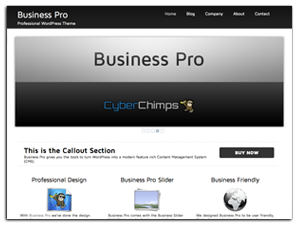
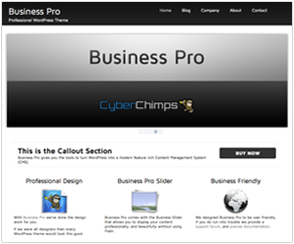
Themes Store rewrite.

diff --git a/library/options/theme-options.css b/library/options/theme-options.css
@@ -52,9 +52,37 @@ input.button-primary {font-size:14px !important;}
 	float: right;text-decoration: none;padding: 5px;
 }
 
+/* CyberChimps Themes CSS
+----------------------------------*/
+
+#contain {
+	text-align: left;margin: 10px 0 10px 10px;padding: 0px;border:0;width: 850px;
+}
+
+#themesheader {
+	margin: 0 0 30px 0;	
+}
+
+.pro {
+	font-size: 19px;
+}
+
+.theme_images {
+	float: left;width: 294px;height: 250px;margin-bottom: 15px;
+}
+
+.theme_desciptions {
+	margin: 0;float: right;width: 540px;height: 250px;margin-bottom: 15px;
+}
+
+.theme_titles a{
+	font-size: 18px;
+	text-decoration: none !important;
+	font-weight: bold;
+	color: #333;
+}
+
 /* Layout helpers
-
-
 ---------------------------------*/
 
 #footer {position: relative;}

diff --git a/library/options/options-themes.php b/library/options/options-themes.php
@@ -36,11 +36,11 @@ function cyberchimps_store_page_init() {
 	$root = get_template_directory_uri(); 
 ?>
 
-<div style="text-align: left;margin: 10px 0 10px 10px;padding: 0px;border:0;width: 860px;">
-	<div style="margin: 0 0 15px 0;">
+<div id="contain">
+	<div id="themesheader">
 		<a href="http://cyberchimps.com" target="_blank"><img src="<?php echo $root ;?>/images/themes/cyberchimps.png" /></a>
 		<br />
-		<font size="4"><b>Professional WordPress Themes</b></font>
+		<span class="pro">Professional WordPress Themes</span>
 		<br /><br />
 		<div class="menu">
 		<ul>
@@ -52,59 +52,49 @@ function cyberchimps_store_page_init() {
 		</ul>
 	</div>
 	<div style="clear: both;"></div>
-
 	</div>
+	
 	<div id="container">
-		<div style="float: left;width: 300px;margin-right: 10px;">
-		
-		<ul>
-		<li style="margin-top: 10px;">
-		<a href="http://cyberchimps.com/businesspro/" target="_blank"><img src="<?php echo $root ;?>/images/themes/bizpro.png" /></a></li>
-		<li style="margin-top: 30px;">
-		<a href="http://cyberchimps.com/ifeaturepro/" target="_blank"><img src="<?php echo $root ;?>/images/themes/ifeaturepro2thumb.png" /></a></li>
-		<li style="margin-top: 30px;">
-		<a href="http://cyberchimps.com/neuropro/" target="_blank"><img src="<?php echo $root ;?>/images/themes/neuropro.png" /></a></li>
-		</ul>
-		
-		</div>
-		
-		<div style="margin: 0;float: left;width: 550px;height: 1% /* Holly hack for Peekaboo Bug */">
-		
-		<ul>
-		
-		<li style="margin-top: 18px;">
-		<font size="3"><a href="http://cyberchimps.com/businesspro/" target="_blank"><b>Business Pro</b></a></font>
-		<br /><br />
+	
+	<div class="theme_images">
+		<a href="http://cyberchimps.com/businesspro/" target="_blank"><img src="<?php echo $root ;?>/images/themes/bizpro.png" /></a>
+	</div>
+	<div class="theme_desciptions">
+		<div class="theme_titles"><a href="http://cyberchimps.com/businesspro/" target="_blank">Business Pro</a></div>
+		<br />
 		Business Pro is a Professional WordPress Theme. Business Pro gives your company the tools to turn WordPress into a modern feature rich Content Management System (CMS).
-		<br /><br /> Business Pro offers intuitive options enabling any business to use WordPress as their content management system. Business Pro offers designers and developers Custom CSS, Import / Export options, and support for CSS3, and HTML5. Even if you are not a designer, Business Pro is built to be business friendly.
+		<br /><br />
+		Business Pro offers intuitive options enabling any business to use WordPress as their content management system. Business Pro offers designers and developers Custom CSS, Import / Export options, and support for CSS3, and HTML5. Even if you are not a designer, Business Pro is built to be business friendly.
 		<br /><br />
 		<a href="http://cyberchimps.com/businesspro" target="_blank"><img src="<?php echo $root ;?>/images/themes/buybizpro.png" height="40" width="120" /></a>
-		</li>
-		
-		<li style="margin-top: 48px;">
-		<font size="3"><a href="http://cyberchimps.com/ifeaturepro/" target="_blank"><b>iFeature Pro</b></a></font>
+	</div>
+	
+	<div class="theme_images">
+		<a href="http://cyberchimps.com/ifeaturepro/" target="_blank"><img src="<?php echo $root ;?>/images/themes/ifeaturepro2.png" /></a>
+	</div>
+	<div class="theme_desciptions">
+		<div class="theme_titles"><a href="http://cyberchimps.com/ifeaturepro/" target="_blank">iFeature Pro</a></div>
+		<br />
+		iFeature Pro turns WordPress into a beautifully designed feature rich Content Management System (CMS). We thought differently when developing iFeature Pro, and took CyberChimps years of experience developing websites for clients and built user friendly settings for the most requested features from the ground up.
 		<br /><br />
-		iFeature Pro turns WordPress into a beautifully designed feature rich Content Management System (CMS).
-
-We thought differently when developing iFeature Pro, and took CyberChimps years of experience developing websites for clients and built user friendly settings for the most requested features from the ground up.
-<br /><br />
-iFeature Pro is an advanced WordPress theme released under the GNU GPL v2. iFeature Pro works great in Chrome, Safari, FireFox, and Internet Explorer 7, 8, and 9 (we do not support Internet Explorer 6). <br /><br />
+		iFeature Pro is an advanced WordPress theme released under the GNU GPL v2. iFeature Pro works great in Chrome, Safari, FireFox, and Internet Explorer 7, 8, and 9 (we do not support Internet Explorer 6). <br /><br />
 		<a href="http://cyberchimps.com/ifeaturepro/" target="_blank"><img src="<?php echo $root ;?>/images/themes/buyifeaturepro.png" height="40" width="120" /></a>
-		</li>
+	</div>
 		
-		<li style="margin-top: 48px;">
-		<font size="3"><a href="http://cyberchimps.com/neuropro/" target="_blank"><b>Neuro Pro</b></a></font>
+		
+	<div class="theme_images">
+		<a href="http://cyberchimps.com/neuropro/" target="_blank"><img src="<?php echo $root ;?>/images/themes/neuropro.png" /></a>
+	</div>
+	<div class="theme_desciptions">
+		<div class="theme_titles"><a href="http://cyberchimps.com/neuropro/" target="_blank">Neuro Pro</a></div>
+		<br />
+		Neuro Pro features intuitive design options allowing anyone the ability to easily customize the look and feel of WordPress. We also included several popular color scheme to choose from, as well as beautiful modern background images. Neuro Pro also offers designers and developers Custom CSS, Import / Export options, and support for CSS3 and HTML5.
 		<br /><br />
-		Neuro Pro gives you the tools to turn WordPress into a modern feature rich Content Management System (CMS).
-
-We built Neuro Pro on the same solid foundation as iFeature Pro, and added new powerful design options. Neuro Pro features intuitive design options allowing anyone the ability to easily customize the look and feel of WordPress. We also included several popular color scheme to choose from, as well as beautiful modern background images. Neuro Pro also offers designers and developers Custom CSS, Import / Export options, and support for CSS3 and HTML5.
-<br /><br />
-Neuro Pro is a next generation WordPress theme released under the GNU GPL v2. Neuro Pro works great in Chrome, Safari, FireFox, and Internet Explorer 7, 8, and 9 (we do not support Internet Explorer 6).
+		Neuro Pro is a next generation WordPress theme released under the GNU GPL v2. Neuro Pro works great in Chrome, Safari, FireFox, and Internet Explorer 7, 8, and 9 (we do not support Internet Explorer 6).
 		<br /> <br />
 		<a href="http://cyberchimps.com/neuropro/" target="_blank"><img src="<?php echo $root ;?>/images/themes/buyneuropro.png" height="40" width="120" /></a>
-		</li>
-		<br /><br />
-		</div>
+	</div>
+
 	</div>
 </div>
 
